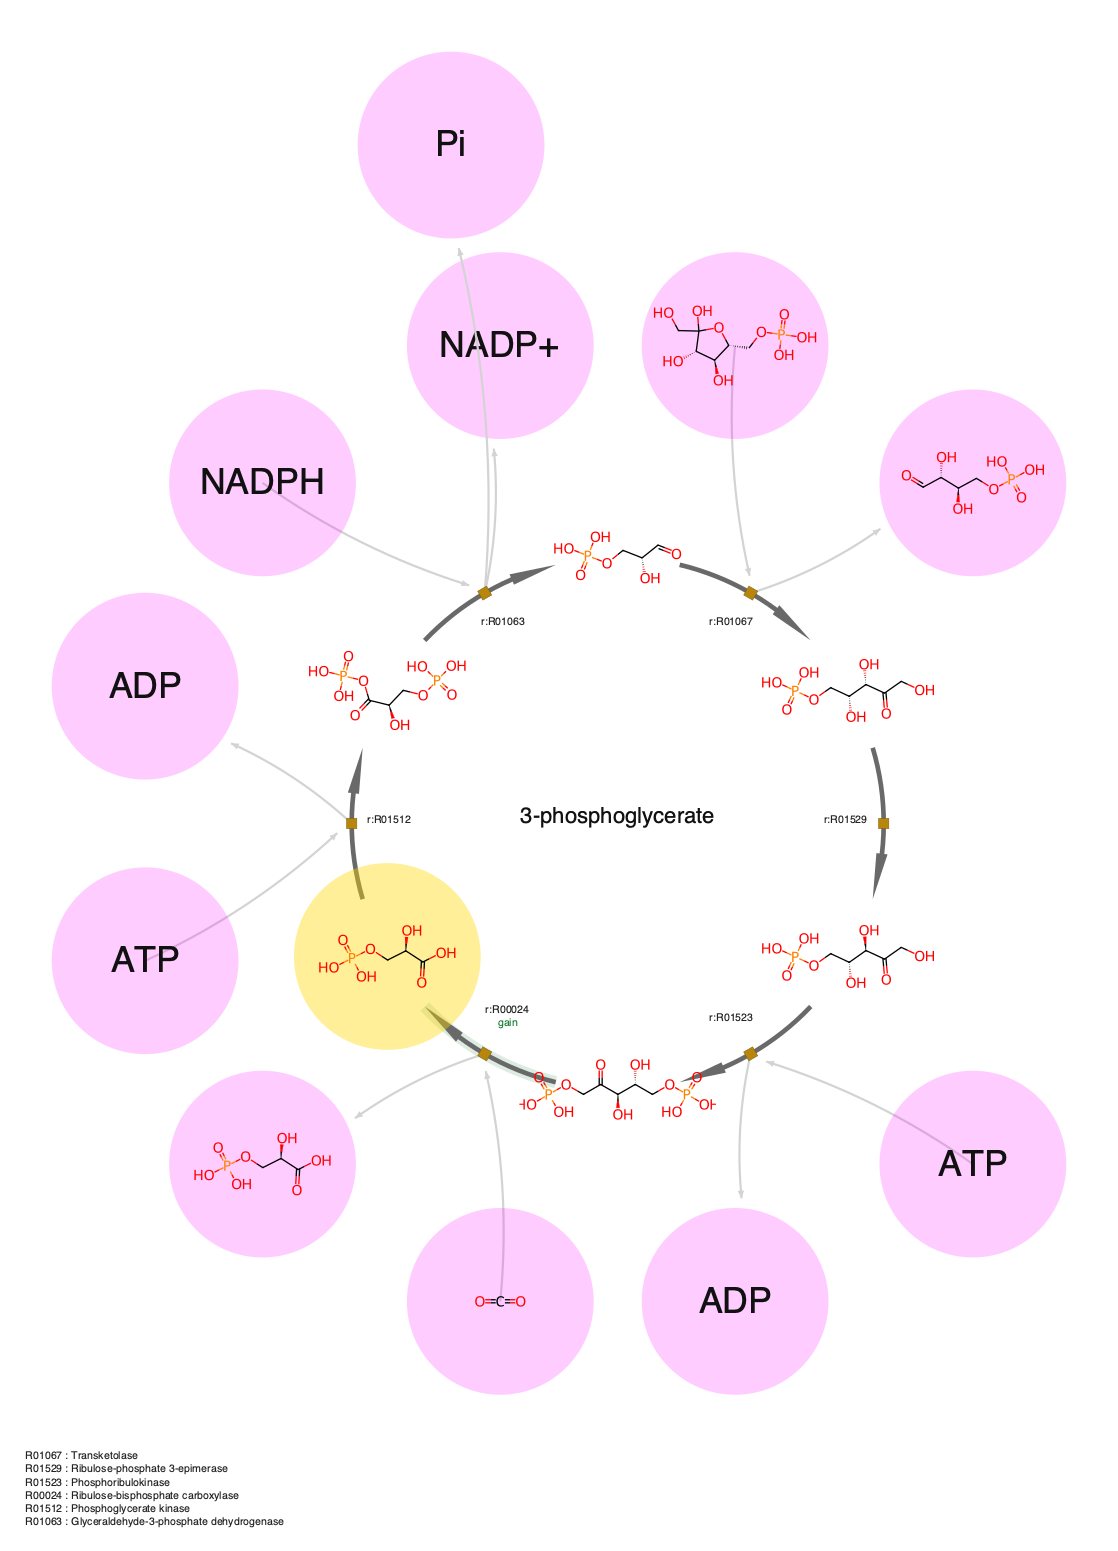
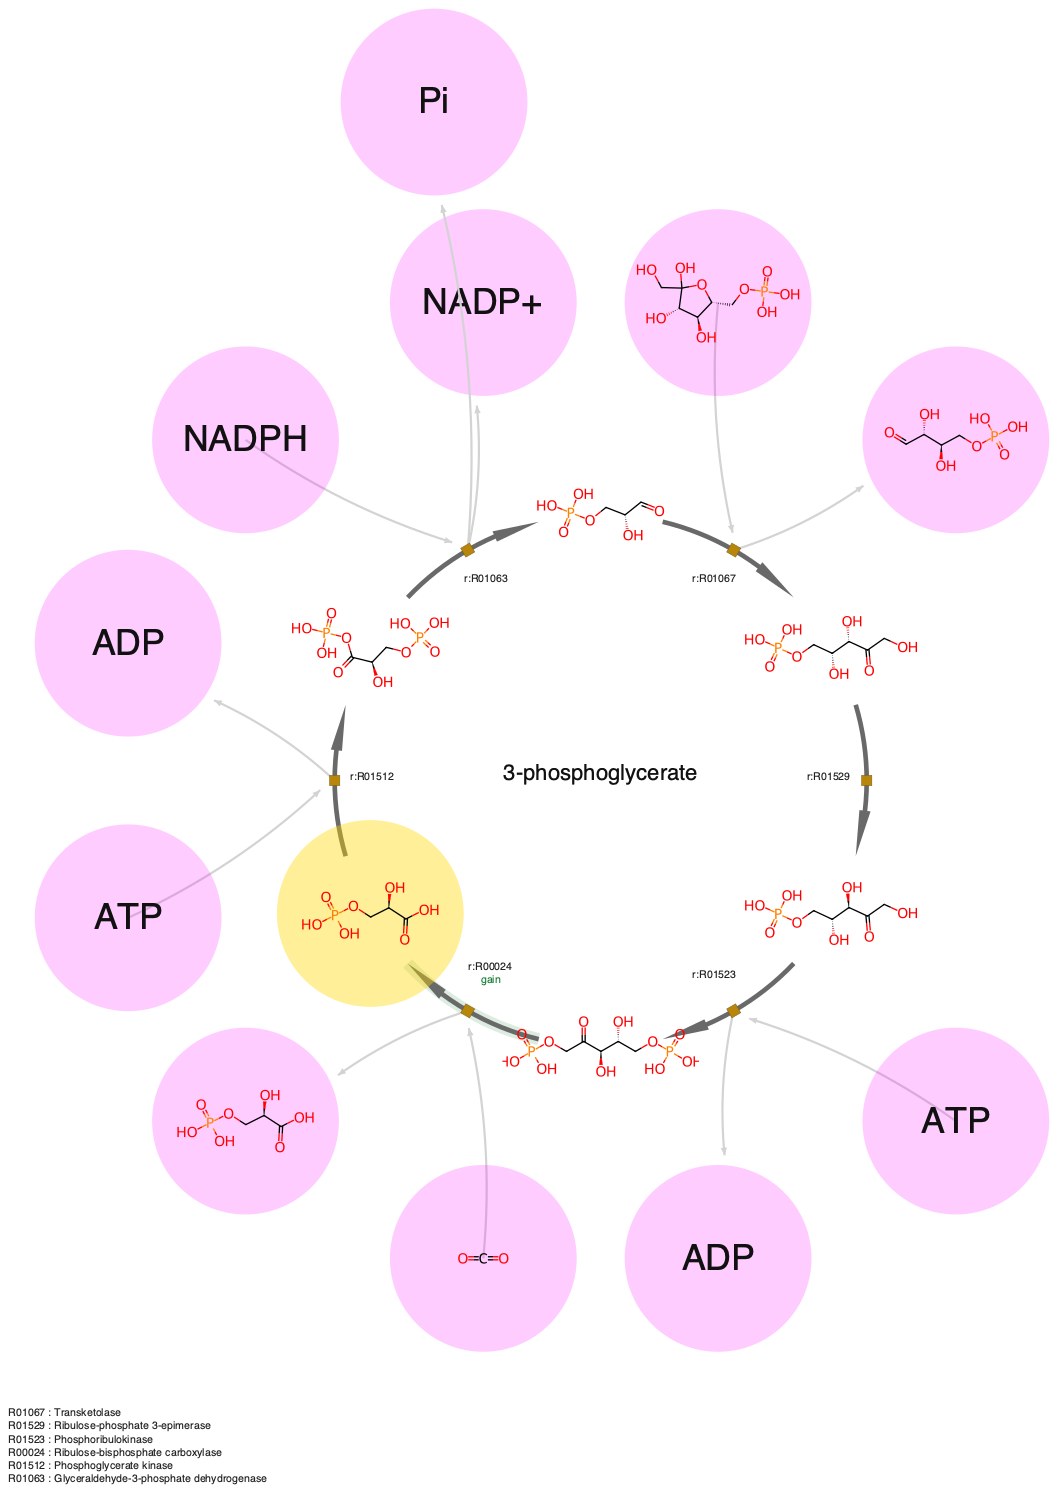
Crop the white border off the drawn cycles, and unstack the panel labels
The cycle figures carried a wide white margin, so at column width the structures
and the rule legend were too small to read. Cropping removes margin without
resampling, so the bond length in the file is unchanged and the two panels of
figure 2 still share one scale; the page simply shows the same drawing larger.

The panel letter sat on top of its title, and the longer of the two titles ran
into the other panel's letter. The letters are clear of the titles and the titles
are short enough to fit their half.

diff --git a/papers/cores/scripts/figures.py b/papers/cores/scripts/figures.py
@@ -186,10 +186,18 @@ def fig3_paired():
     """
     import matplotlib.image as mpimg
     panels = [(OUT / "fig3_serious_retroaldol.png", "a",
-               "serious: aldol with retro-aldol cleavage"),
+               "serious: retro-aldol cleavage"),
               (OUT / "fig3_artefact_methanol_shuttle.png", "b",
-               "artefact: the methanol shuttle")]
-    imgs = [mpimg.imread(p) for p, _, _ in panels]
+               "artefact: methanol shuttle")]
+    def crop(i, pad=8):
+        """Drop the white border. Cropping does not rescale, so bond lengths hold."""
+        ink = (i[:, :, :3] < 0.99).any(axis=2)
+        rows, cols = np.where(ink.any(axis=1))[0], np.where(ink.any(axis=0))[0]
+        r0, r1 = max(rows[0] - pad, 0), min(rows[-1] + pad + 1, i.shape[0])
+        c0, c1 = max(cols[0] - pad, 0), min(cols[-1] + pad + 1, i.shape[1])
+        return i[r0:r1, c0:c1]
+
+    imgs = [crop(mpimg.imread(p)) for p, _, _ in panels]
     h = max(i.shape[0] for i in imgs)
     w = max(i.shape[1] for i in imgs)
     padded = []
@@ -199,14 +207,15 @@ def fig3_paired():
         left = (w - i.shape[1]) // 2
         canvas[top:top + i.shape[0], left:left + i.shape[1]] = i
         padded.append(canvas)
-    fig, axes = plt.subplots(1, 2, figsize=(7.6, 3.9))
+    fig, axes = plt.subplots(1, 2, figsize=(7.6, 7.6 * h / (2 * w) + 0.35))
     for ax, img, (_, tag, title) in zip(axes, padded, panels, strict=False):
         ax.imshow(img)
         ax.axis("off")
-        ax.set_title(title, fontsize=9)
+        # leading space keeps the title clear of the panel letter
+        ax.set_title("    " + title, fontsize=9, loc="left")
         ax.text(0.0, 1.0, tag, transform=ax.transAxes, fontsize=11,
                 fontweight="bold", va="bottom", ha="left")
-    fig.subplots_adjust(wspace=0.02)
+    fig.subplots_adjust(wspace=0.06)
     fig.savefig(OUT / "fig3_paired.png", dpi=300, bbox_inches="tight")
     print("  fig3_paired.png")
 

diff --git a/papers/cores/scripts/draw_cycles.py b/papers/cores/scripts/draw_cycles.py
@@ -11,6 +11,8 @@ import subprocess
 import sys
 from pathlib import Path
 
+from PIL import Image
+
 ROOT = Path(__file__).resolve().parents[1]
 SPECS = ROOT / "figures" / "specs"
 CANVAS = "13"                 # wide enough that every cycle here draws at one scale
@@ -39,6 +41,21 @@ def autocycle():
     return exe
 
 
+def trim(path: Path, pad: int = 8) -> None:
+    """Drop the white border autocycle leaves around a cycle.
+
+    Cropping removes margin without resampling, so the bond length in the file is
+    untouched; it is the page that shows the same drawing larger.
+    """
+    im = Image.open(path).convert("RGB")
+    bbox = Image.eval(im, lambda v: 255 - v).getbbox()
+    if not bbox:
+        return
+    x0, y0, x1, y1 = bbox
+    im.crop((max(x0 - pad, 0), max(y0 - pad, 0),
+             min(x1 + pad, im.width), min(y1 + pad, im.height))).save(path)
+
+
 def main():
     exe = autocycle()
     log = []
@@ -49,8 +66,10 @@ def main():
         status = v.stdout.split("\n")[0]
         if "autocatalytic" not in status:
             sys.exit(f"{stem}: {status.strip()}, expected autocatalytic")
-        subprocess.run([exe, "draw", str(spec), "-o", str(ROOT / "figures" / png), *STYLE],
+        out = ROOT / "figures" / png
+        subprocess.run([exe, "draw", str(spec), "-o", str(out), *STYLE],
                        check=True, capture_output=True)
+        trim(out)
         print(f"  {png:34s} {status.strip()}")
     (ROOT / "results" / "cycle_verify.txt").write_text("\n\n".join(log) + "\n")
     print("  verify output -> results/cycle_verify.txt")
